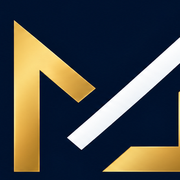
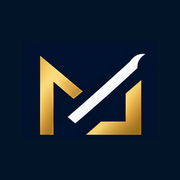
Release MarimeTech Website v2.0

diff --git a/app/about/page.tsx b/app/about/page.tsx
@@ -1,43 +1,146 @@
 import type { Metadata } from 'next';
 import Link from 'next/link';
+import { CheckCircle2, ShieldCheck, UsersRound } from 'lucide-react';
 
-export const metadata: Metadata = { title: 'Transforming today. Empowering tomorrow.' };
+export const metadata: Metadata = {
+  title: 'About Us',
+  description: 'Learn about MarimeTech Solutions, our approach and our leadership.'
+};
 
-export default function Page() {
+export default function AboutPage() {
   return (
     <main id="main">
-      <section className="pageHero"><div className="container"><p className="eyebrow">MarimeTech Solutions</p><h1>Transforming today. Empowering tomorrow.</h1><p>MarimeTech Solutions Inc. is a Toronto-based technology advisory and transformation company helping organizations solve operational bottlenecks, modernize securely and build stronger foundations for growth.</p></div></section>
-      
+      <section className="pageHero">
+        <div className="container">
+          <p className="eyebrow">About MarimeTech</p>
+          <h1>Business-first technology built for meaningful change.</h1>
+          <p>
+            MarimeTech Solutions Inc. helps organizations identify and remove business
+            bottlenecks through secure technology transformation.
+          </p>
+        </div>
+      </section>
+
       <section className="section">
         <div className="container split">
           <div>
-            <p className="eyebrow">Our point of view</p>
-            <h2>The best technology decision begins with the right business question.</h2>
-            <p className="lead muted">Organizations rarely struggle because they lack another tool. More often, the challenge is unclear strategy, fragmented process, unmanaged risk, poor adoption or a delivery gap.</p>
-            <p>MarimeTech brings together enterprise technology leadership, program delivery, cybersecurity, cloud, infrastructure and transformation experience to help leaders make better decisions and execute them with confidence.</p>
+            <p className="eyebrow">Who we are</p>
+            <h2>The right technology decision starts with the right business question.</h2>
+            <p className="lead muted">
+              Organizations rarely struggle because they lack another tool. More often,
+              the real constraint is unclear strategy, fragmented processes, unmanaged
+              risk, poor adoption or a delivery gap.
+            </p>
+            <p>
+              MarimeTech brings together enterprise technology leadership, program
+              delivery, cybersecurity, cloud, infrastructure and transformation
+              experience to help leaders make better decisions and execute them with confidence.
+            </p>
           </div>
           <div className="card">
             <h3>Our mission</h3>
-            <p>To help organizations leverage technology with clarity, remove the bottlenecks that limit performance and create sustainable capacity for growth.</p>
-            <h3 style={{marginTop:28}}>Our promise</h3>
-            <p>We remain practical, transparent and focused on the outcome the business actually needs.</p>
+            <p>
+              To help organizations remove the bottlenecks that limit performance and
+              build stronger foundations for sustainable growth.
+            </p>
+            <h3 style={{marginTop: 28}}>Our promise</h3>
+            <p>
+              Practical advice, transparent communication and solutions designed around
+              the outcome the business actually needs.
+            </p>
           </div>
         </div>
       </section>
+
       <section className="section soft">
         <div className="container">
-          <p className="eyebrow">What guides us</p>
-          <h2>Principles that shape every engagement.</h2>
-          <div className="grid2" style={{marginTop:40}}>
-            <div className="serviceBlock"><h3>Business before technology</h3><p>We start with the outcome, constraint and operating reality before recommending a platform or tool.</p></div>
-            <div className="serviceBlock"><h3>Clarity and accountability</h3><p>Roles, decisions, risks and success measures should be visible from the beginning.</p></div>
-            <div className="serviceBlock"><h3>Security by design</h3><p>Growth should not create unmanaged exposure. Security and governance are built into the solution.</p></div>
-            <div className="serviceBlock"><h3>Transformation that sticks</h3><p>Technology creates value only when people adopt it and the organization can sustain it.</p></div>
+          <div className="centerHeading">
+            <p className="eyebrow">Our approach</p>
+            <h2>How We Work</h2>
+          </div>
+          <div className="approachGrid">
+            <article className="approachItem">
+              <span className="approachIcon"><UsersRound /></span>
+              <h3>Business First</h3>
+              <p>
+                We begin with your goals, operating reality and the constraint that is
+                slowing progress.
+              </p>
+            </article>
+            <article className="approachItem">
+              <span className="approachIcon"><ShieldCheck /></span>
+              <h3>Secure by Design</h3>
+              <p>
+                Security is built into every solution from the start—not added as an
+                afterthought.
+              </p>
+            </article>
+            <article className="approachItem">
+              <span className="approachIcon"><CheckCircle2 /></span>
+              <h3>Built for Resilience</h3>
+              <p>
+                We design technology that is reliable, scalable and ready to support
+                your business as it changes.
+              </p>
+            </article>
           </div>
         </div>
       </section>
-      <section className="section"><div className="container band"><div><p className="eyebrow">Work with us</p><h2 style={{marginBottom:12}}>Bring us the business problem, not a polished brief.</h2><p>We can help frame the challenge, understand the options and determine the right next move.</p></div><Link className="btn btnPrimary" href="/contact">Start a conversation</Link></div></section>
 
+      <section className="section leadershipSection">
+        <div className="container">
+          <div className="sectionIntro">
+            <p className="eyebrow">Leadership</p>
+            <h2>Experience grounded in delivery, not theory.</h2>
+          </div>
+          <div className="founderCard leadershipCard">
+            <div
+              className="founderPortrait founderPhoto"
+              role="img"
+              aria-label="James Marime, Founder and CEO of MarimeTech Solutions"
+            />
+            <div className="founderCopy">
+              <p className="eyebrow">Founder & CEO</p>
+              <h2>James Marime</h2>
+              <p>
+                James is a technology and transformation leader with more than 15 years
+                of experience across cloud, infrastructure, cybersecurity, IT operations
+                and enterprise programs.
+              </p>
+              <p>
+                He founded MarimeTech around a simple belief: organizations do not need
+                more complexity. They need clarity about what is holding them back and
+                disciplined support to fix it.
+              </p>
+              <div className="actions">
+                <Link className="btn btnPrimary" href="/contact">Start a conversation</Link>
+                <a
+                  className="btn btnGhost"
+                  href="https://www.linkedin.com/in/james-marime/"
+                  target="_blank"
+                  rel="noreferrer"
+                >
+                  View LinkedIn
+                </a>
+              </div>
+            </div>
+          </div>
+        </div>
+      </section>
+
+      <section className="section">
+        <div className="container band">
+          <div>
+            <p className="eyebrow">Work with us</p>
+            <h2 style={{marginBottom: 12}}>Bring us the business problem, not a polished brief.</h2>
+            <p>
+              We can help frame the challenge, understand the options and determine the
+              right next move.
+            </p>
+          </div>
+          <Link className="btn btnPrimary" href="/contact">Book a conversation</Link>
+        </div>
+      </section>
     </main>
   );
 }

diff --git a/app/globals.css b/app/globals.css
@@ -803,3 +803,61 @@ textarea { min-height: 170px; resize: vertical; }
   .compactFooterGrid { grid-template-columns:1fr; }
   .compactFooterGrid > :first-child { grid-column:auto; }
 }
+
+
+/* Approved v2.0 refinements */
+.markOnlyLink {
+  display: flex;
+  align-items: center;
+  justify-content: center;
+  overflow: visible;
+  padding: 6px;
+}
+.markOnlyLogo {
+  width: 104px;
+  height: 88px;
+  object-fit: contain;
+  object-position: center;
+  border-radius: 0;
+}
+.footerMark {
+  width: 92px;
+  height: 92px;
+  object-fit: contain;
+  object-position: center;
+}
+.orbitCore img {
+  width: 72%;
+  height: 72%;
+  object-fit: contain;
+}
+.leadershipSection {
+  background: #03172d;
+  color: white;
+}
+.leadershipSection .sectionIntro h2 {
+  color: white;
+}
+.leadershipCard {
+  border: 1px solid rgba(255,255,255,.14);
+}
+
+@media (max-width: 1080px) {
+  .markOnlyLogo {
+    width: 88px;
+    height: 74px;
+  }
+}
+@media (max-width: 700px) {
+  .markOnlyLink {
+    padding: 5px;
+  }
+  .markOnlyLogo {
+    width: 72px;
+    height: 62px;
+  }
+  .footerMark {
+    width: 78px;
+    height: 78px;
+  }
+}

diff --git a/components/KitSignupForm.tsx b/components/KitSignupForm.tsx
@@ -28,7 +28,7 @@ export default function KitSignupForm() {
         target="kit-submission-frame"
         onSubmit={handleSubmit}
       >
-        <label htmlFor="blueprint-email">Business email address</label>
+        <label htmlFor="blueprint-email">Email address</label>
         <div className="kitFormRow">
           <input
             id="blueprint-email"
@@ -36,7 +36,7 @@ export default function KitSignupForm() {
             type="email"
             required
             autoComplete="email"
-            placeholder="you@yourcompany.com"
+            placeholder="you@example.com"
           />
           <button className="btn btnPrimary kitSubmit" type="submit">Get My Free Blueprint Now</button>
         </div>

diff --git a/components/Footer.tsx b/components/Footer.tsx
@@ -10,7 +10,7 @@ export default function Footer() {
         </div>
         <div>
           <h3>Quick links</h3>
-          <ul><li><Link href="/">Home</Link></li><li><Link href="/launch-your-business">Launch Your Business</Link></li><li><Link href="/services">Solutions</Link></li><li><Link href="/founder">Founder</Link></li><li><Link href="/insights">Insights</Link></li></ul>
+          <ul><li><Link href="/">Home</Link></li><li><Link href="/launch-your-business">Launch Your Business</Link></li><li><Link href="/services">Solutions</Link></li><li><Link href="/about">About Us</Link></li><li><Link href="/insights">Insights</Link></li></ul>
         </div>
         <div>
           <h3>Let&apos;s connect</h3>

diff --git a/app/sitemap.ts b/app/sitemap.ts
@@ -9,7 +9,6 @@ export default function sitemap(): MetadataRoute.Sitemap {
     { url: `${base}/launch-your-business/`, priority: .95 },
     { url: `${base}/services/`, priority: .85 },
     { url: `${base}/about/`, priority: .7 },
-    { url: `${base}/founder/`, priority: .75 },
     { url: `${base}/insights/`, priority: .7 },
     { url: `${base}/contact/`, priority: .9 },
   ];

diff --git a/components/Header.tsx b/components/Header.tsx
@@ -8,7 +8,7 @@ const links = [
   ['/', 'Home'],
   ['/launch-your-business', 'Launch Your Business'],
   ['/services', 'Solutions'],
-  ['/founder', 'Founder'],
+  ['/about', 'About Us'],
   ['/insights', 'Insights'],
   ['/contact', 'Contact'],
 ];

diff --git a/README.md b/README.md
@@ -127,3 +127,16 @@ Upload all extracted files to the existing GitHub repository and commit. Netlify
 
 ## Static sitemap fix
 - Added `export const dynamic = "force-static";` to `app/sitemap.ts` for compatibility with Next.js static export.
+
+
+## MarimeTech Website v2.0 — Approved Release
+
+- Rebuilt the standalone M logo with proper padding to prevent clipping
+- Updated navigation from Founder to About Us
+- Merged leadership content into the scalable About Us page
+- Removed the old Founder route and sitemap entry
+- Changed the Kit form label to Email address
+- Changed the email placeholder to you@example.com
+- Preserved the simplified homepage capability graphic
+- Retained static sitemap compatibility for Netlify
+- Pinned framework and dependency versions for repeatable builds
